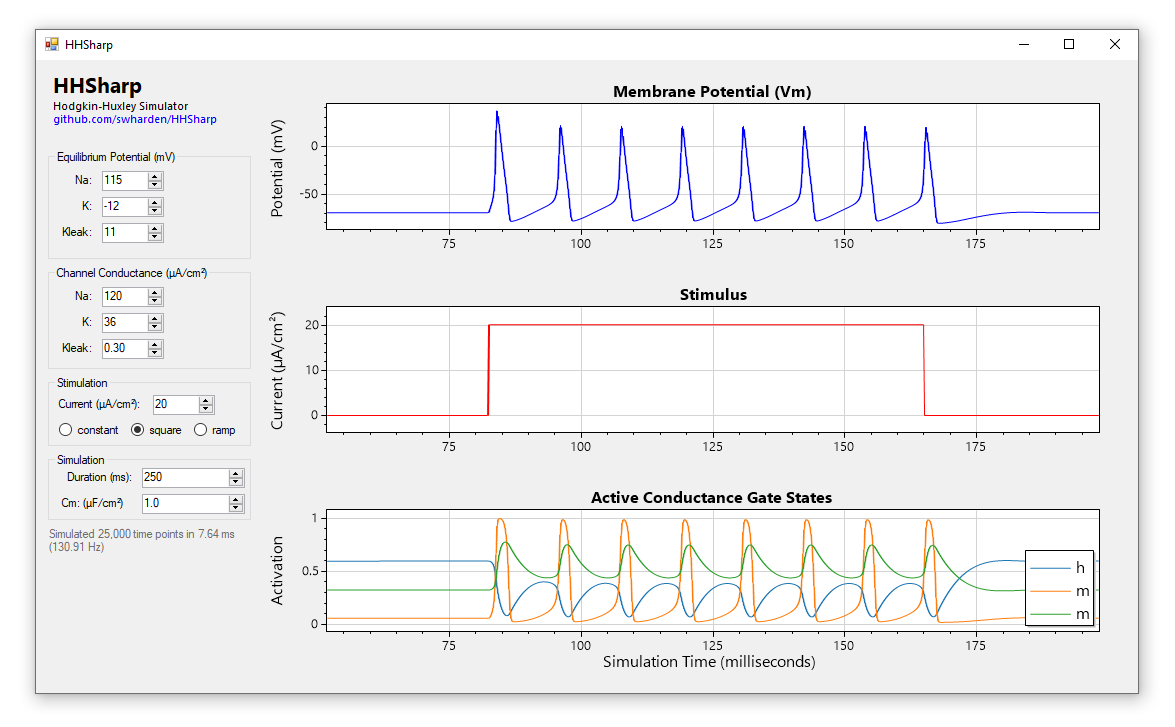
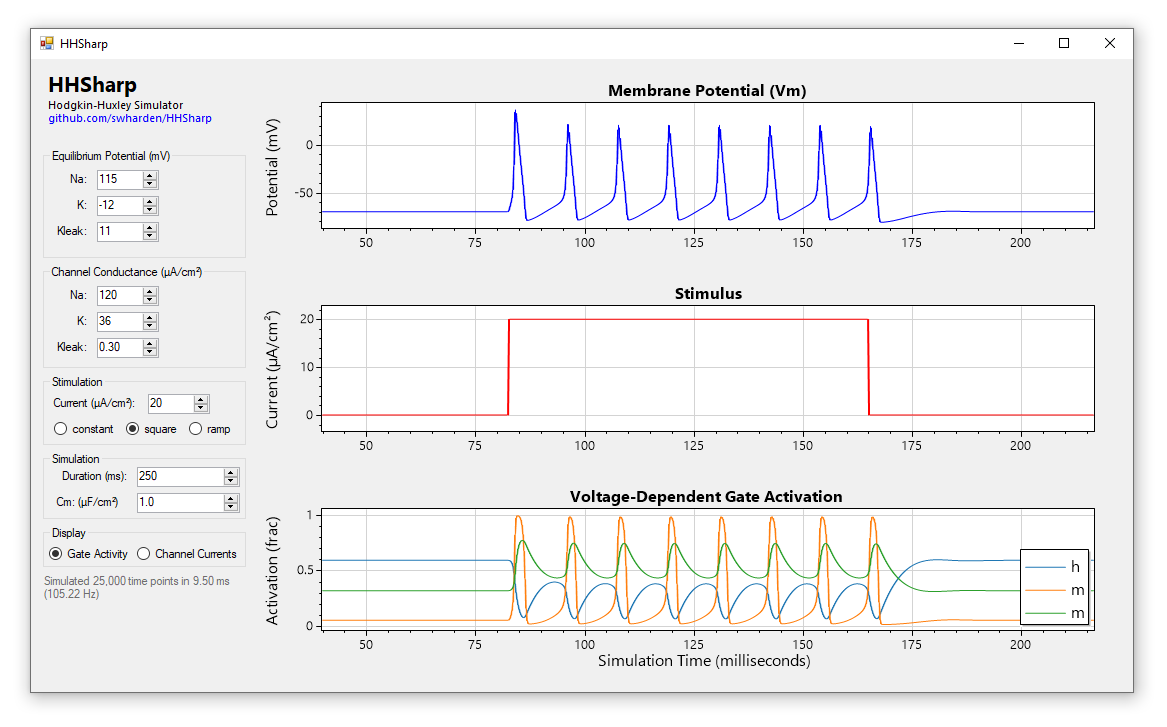
additional display options

diff --git a/src/HHSharp/FormMain.cs b/src/HHSharp/FormMain.cs
@@ -16,20 +16,9 @@ namespace HHSharp
         public FormMain()
         {
             InitializeComponent();
-
-            formsPlot1.plt.Title("Membrane Potential (Vm)");
-            formsPlot1.plt.YLabel("Potential (mV)");
             formsPlot1.plt.mouseTracker.lowQualityWhileInteracting = false;
-
-            formsPlot3.plt.Title("Stimulus");
-            formsPlot3.plt.YLabel("Current (µA/cm²)");
             formsPlot3.plt.mouseTracker.lowQualityWhileInteracting = false;
-
-            formsPlot2.plt.Title("Active Conductance Gate States");
-            formsPlot2.plt.YLabel("Activation");
-            formsPlot2.plt.XLabel("Simulation Time (milliseconds)");
             formsPlot2.plt.mouseTracker.lowQualityWhileInteracting = false;
-
             RunSimulation();
         }
 
@@ -56,7 +45,7 @@ namespace HHSharp
             }
             else
             {
-                throw new Exception("unknown stimulus waveform");
+                throw new NotImplementedException();
             }
 
             return stimulus;
@@ -76,6 +65,10 @@ namespace HHSharp
             double[] stateH = new double[pointCount];
             double[] stateM = new double[pointCount];
             double[] stateN = new double[pointCount];
+
+            double[] INa = new double[pointCount];
+            double[] IK = new double[pointCount];
+            double[] IKleak = new double[pointCount];
 
             double[] stimulus = GenerateStimulusWaveform(pointCount);
 
@@ -97,6 +90,9 @@ namespace HHSharp
                 stateH[i] = hh.h.activation;
                 stateM[i] = hh.m.activation;
                 stateN[i] = hh.n.activation;
+                INa[i] = hh.INa;
+                IK[i] = hh.IK;
+                IKleak[i] = hh.IKleak;
             }
 
             double elapsedSec = (double)stopwatch.ElapsedTicks / Stopwatch.Frequency;
@@ -104,40 +100,47 @@ namespace HHSharp
                 elapsedSec * 1000.0, 1 / elapsedSec, pointCount);
             rtbStatus.Text = message;
 
+            formsPlot1.plt.Title("Membrane Potential (Vm)");
+            formsPlot1.plt.YLabel("Potential (mV)");
             formsPlot1.plt.Clear();
             formsPlot1.plt.PlotSignal(voltage, sampleRate, yOffset: -70, color: Color.Blue);
             formsPlot1.plt.AxisAuto();
             formsPlot1.Render();
 
+            formsPlot3.plt.Title("Stimulus");
+            formsPlot3.plt.YLabel("Current (µA/cm²)");
             formsPlot3.plt.Clear();
             formsPlot3.plt.PlotSignal(stimulus, sampleRate, color: Color.Red);
             formsPlot3.plt.AxisAuto();
             formsPlot3.Render();
 
             formsPlot2.plt.Clear();
-            formsPlot2.plt.PlotSignal(stateH, sampleRate, label: "h");
-            formsPlot2.plt.PlotSignal(stateM, sampleRate, label: "m");
-            formsPlot2.plt.PlotSignal(stateN, sampleRate, label: "m");
+            if (rbDisplayActivity.Checked == true)
+            {
+                formsPlot2.plt.Title("Voltage-Dependent Gate Activation");
+                formsPlot2.plt.YLabel("Activation (frac)");
+                formsPlot2.plt.PlotSignal(stateH, sampleRate, label: "h");
+                formsPlot2.plt.PlotSignal(stateM, sampleRate, label: "m");
+                formsPlot2.plt.PlotSignal(stateN, sampleRate, label: "m");
+            }
+            else if (rbDisplayCurrent.Checked == true)
+            {
+                formsPlot2.plt.Title("Channel Current");
+                formsPlot2.plt.YLabel("Current (µA/cm²)");
+                formsPlot2.plt.PlotSignal(INa, sampleRate, label: "VGSC");
+                formsPlot2.plt.PlotSignal(IK, sampleRate, label: "VGKC");
+                formsPlot2.plt.PlotSignal(IKleak, sampleRate, label: "Kleak");
+            }
+            else
+            {
+                throw new NotImplementedException();
+            }
+            formsPlot2.plt.XLabel("Simulation Time (milliseconds)");
             formsPlot2.plt.Legend();
             formsPlot2.plt.AxisAuto();
             formsPlot2.Render();
 
         }
-
-        private void btnRun_Click(object sender, EventArgs e) { RunSimulation(); }
-        private void nudStimCurrent_ValueChanged(object sender, EventArgs e) { RunSimulation(); }
-        private void rbStimConstant_CheckedChanged(object sender, EventArgs e) { RunSimulation(); }
-        private void rbStimSquare_CheckedChanged(object sender, EventArgs e) { RunSimulation(); }
-        private void rbStimRamp_CheckedChanged(object sender, EventArgs e) { RunSimulation(); }
-        private void nudCm_ValueChanged(object sender, EventArgs e) { RunSimulation(); }
-        private void nudResolutionMs_ValueChanged(object sender, EventArgs e) { RunSimulation(); }
-        private void nudDurationMs_ValueChanged(object sender, EventArgs e) { RunSimulation(); }
-        private void nudGKLeak_ValueChanged(object sender, EventArgs e) { RunSimulation(); }
-        private void nudGK_ValueChanged(object sender, EventArgs e) { RunSimulation(); }
-        private void nudGNa_ValueChanged(object sender, EventArgs e) { RunSimulation(); }
-        private void nudEKLeak_ValueChanged(object sender, EventArgs e) { RunSimulation(); }
-        private void nudEK_ValueChanged(object sender, EventArgs e) { RunSimulation(); }
-        private void nudENa_ValueChanged(object sender, EventArgs e) { RunSimulation(); }
 
         private void formsPlot1_MouseClicked(object sender, MouseEventArgs e)
         {
@@ -175,7 +178,23 @@ namespace HHSharp
 
         private void lblUrl_Click(object sender, EventArgs e)
         {
-            System.Diagnostics.Process.Start("https://github.com/swharden/HHSharp");
+            Process.Start("https://github.com/swharden/HHSharp");
         }
+
+        private void nudStimCurrent_ValueChanged(object sender, EventArgs e) { RunSimulation(); }
+        private void rbStimConstant_CheckedChanged(object sender, EventArgs e) { RunSimulation(); }
+        private void rbStimSquare_CheckedChanged(object sender, EventArgs e) { RunSimulation(); }
+        private void rbStimRamp_CheckedChanged(object sender, EventArgs e) { RunSimulation(); }
+        private void nudCm_ValueChanged(object sender, EventArgs e) { RunSimulation(); }
+        private void nudResolutionMs_ValueChanged(object sender, EventArgs e) { RunSimulation(); }
+        private void nudDurationMs_ValueChanged(object sender, EventArgs e) { RunSimulation(); }
+        private void nudGKLeak_ValueChanged(object sender, EventArgs e) { RunSimulation(); }
+        private void nudGK_ValueChanged(object sender, EventArgs e) { RunSimulation(); }
+        private void nudGNa_ValueChanged(object sender, EventArgs e) { RunSimulation(); }
+        private void nudEKLeak_ValueChanged(object sender, EventArgs e) { RunSimulation(); }
+        private void nudEK_ValueChanged(object sender, EventArgs e) { RunSimulation(); }
+        private void nudENa_ValueChanged(object sender, EventArgs e) { RunSimulation(); }
+        private void rbDisplayActivity_CheckedChanged(object sender, EventArgs e) { RunSimulation(); }
+        private void rbDisplayCurrent_CheckedChanged(object sender, EventArgs e) { RunSimulation(); }
     }
 }

diff --git a/src/HHSharp/FormMain.Designer.cs b/src/HHSharp/FormMain.Designer.cs
@@ -58,9 +58,12 @@
             this.label11 = new System.Windows.Forms.Label();
             this.nudStimCurrent = new System.Windows.Forms.NumericUpDown();
             this.formsPlot2 = new ScottPlot.FormsPlot();
-            this.formsPlot3 = new ScottPlot.FormsPlot();
             this.tableLayoutPanel1 = new System.Windows.Forms.TableLayoutPanel();
             this.rtbStatus = new System.Windows.Forms.RichTextBox();
+            this.groupBox5 = new System.Windows.Forms.GroupBox();
+            this.formsPlot3 = new ScottPlot.FormsPlot();
+            this.rbDisplayActivity = new System.Windows.Forms.RadioButton();
+            this.rbDisplayCurrent = new System.Windows.Forms.RadioButton();
             ((System.ComponentModel.ISupportInitialize)(this.nudDurationMs)).BeginInit();
             this.groupBox1.SuspendLayout();
             ((System.ComponentModel.ISupportInitialize)(this.nudCm)).BeginInit();
@@ -75,6 +78,7 @@
             this.groupBox4.SuspendLayout();
             ((System.ComponentModel.ISupportInitialize)(this.nudStimCurrent)).BeginInit();
             this.tableLayoutPanel1.SuspendLayout();
+            this.groupBox5.SuspendLayout();
             this.SuspendLayout();
             // 
             // formsPlot1
@@ -507,15 +511,6 @@
             this.formsPlot2.TabIndex = 12;
             this.formsPlot2.MouseClicked += new System.Windows.Forms.MouseEventHandler(this.formsPlot2_MouseClicked);
             // 
-            // formsPlot3
-            // 
-            this.formsPlot3.Dock = System.Windows.Forms.DockStyle.Fill;
-            this.formsPlot3.Location = new System.Drawing.Point(3, 206);
-            this.formsPlot3.Name = "formsPlot3";
-            this.formsPlot3.Size = new System.Drawing.Size(863, 197);
-            this.formsPlot3.TabIndex = 13;
-            this.formsPlot3.MouseClicked += new System.Windows.Forms.MouseEventHandler(this.formsPlot3_MouseClicked);
-            // 
             // tableLayoutPanel1
             // 
             this.tableLayoutPanel1.Anchor = ((System.Windows.Forms.AnchorStyles)((((System.Windows.Forms.AnchorStyles.Top | System.Windows.Forms.AnchorStyles.Bottom) 
@@ -540,17 +535,62 @@
             this.rtbStatus.BackColor = System.Drawing.SystemColors.Control;
             this.rtbStatus.BorderStyle = System.Windows.Forms.BorderStyle.None;
             this.rtbStatus.Enabled = false;
-            this.rtbStatus.Location = new System.Drawing.Point(12, 467);
+            this.rtbStatus.Location = new System.Drawing.Point(12, 515);
             this.rtbStatus.Name = "rtbStatus";
-            this.rtbStatus.Size = new System.Drawing.Size(203, 96);
+            this.rtbStatus.Size = new System.Drawing.Size(203, 75);
             this.rtbStatus.TabIndex = 15;
             this.rtbStatus.Text = "status";
+            // 
+            // groupBox5
+            // 
+            this.groupBox5.Controls.Add(this.rbDisplayCurrent);
+            this.groupBox5.Controls.Add(this.rbDisplayActivity);
+            this.groupBox5.Location = new System.Drawing.Point(12, 467);
+            this.groupBox5.Name = "groupBox5";
+            this.groupBox5.Size = new System.Drawing.Size(203, 42);
+            this.groupBox5.TabIndex = 9;
+            this.groupBox5.TabStop = false;
+            this.groupBox5.Text = "Display";
+            // 
+            // formsPlot3
+            // 
+            this.formsPlot3.Dock = System.Windows.Forms.DockStyle.Fill;
+            this.formsPlot3.Location = new System.Drawing.Point(3, 206);
+            this.formsPlot3.Name = "formsPlot3";
+            this.formsPlot3.Size = new System.Drawing.Size(863, 197);
+            this.formsPlot3.TabIndex = 13;
+            this.formsPlot3.MouseClicked += new System.Windows.Forms.MouseEventHandler(this.formsPlot3_MouseClicked);
+            // 
+            // rbDisplayActivity
+            // 
+            this.rbDisplayActivity.AutoSize = true;
+            this.rbDisplayActivity.Checked = true;
+            this.rbDisplayActivity.Location = new System.Drawing.Point(6, 19);
+            this.rbDisplayActivity.Name = "rbDisplayActivity";
+            this.rbDisplayActivity.Size = new System.Drawing.Size(85, 17);
+            this.rbDisplayActivity.TabIndex = 6;
+            this.rbDisplayActivity.TabStop = true;
+            this.rbDisplayActivity.Text = "Gate Activity";
+            this.rbDisplayActivity.UseVisualStyleBackColor = true;
+            this.rbDisplayActivity.CheckedChanged += new System.EventHandler(this.rbDisplayActivity_CheckedChanged);
+            // 
+            // rbDisplayCurrent
+            // 
+            this.rbDisplayCurrent.AutoSize = true;
+            this.rbDisplayCurrent.Location = new System.Drawing.Point(94, 19);
+            this.rbDisplayCurrent.Name = "rbDisplayCurrent";
+            this.rbDisplayCurrent.Size = new System.Drawing.Size(106, 17);
+            this.rbDisplayCurrent.TabIndex = 7;
+            this.rbDisplayCurrent.Text = "Channel Currents";
+            this.rbDisplayCurrent.UseVisualStyleBackColor = true;
+            this.rbDisplayCurrent.CheckedChanged += new System.EventHandler(this.rbDisplayCurrent_CheckedChanged);
             // 
             // FormMain
             // 
             this.AutoScaleDimensions = new System.Drawing.SizeF(6F, 13F);
             this.AutoScaleMode = System.Windows.Forms.AutoScaleMode.Font;
             this.ClientSize = new System.Drawing.Size(1102, 633);
+            this.Controls.Add(this.groupBox5);
             this.Controls.Add(this.rtbStatus);
             this.Controls.Add(this.tableLayoutPanel1);
             this.Controls.Add(this.groupBox4);
@@ -580,6 +620,8 @@
             this.groupBox4.PerformLayout();
             ((System.ComponentModel.ISupportInitialize)(this.nudStimCurrent)).EndInit();
             this.tableLayoutPanel1.ResumeLayout(false);
+            this.groupBox5.ResumeLayout(false);
+            this.groupBox5.PerformLayout();
             this.ResumeLayout(false);
             this.PerformLayout();
 
@@ -617,9 +659,12 @@
         private System.Windows.Forms.Label label11;
         private System.Windows.Forms.NumericUpDown nudStimCurrent;
         private ScottPlot.FormsPlot formsPlot2;
-        private ScottPlot.FormsPlot formsPlot3;
         private System.Windows.Forms.TableLayoutPanel tableLayoutPanel1;
         private System.Windows.Forms.RichTextBox rtbStatus;
+        private System.Windows.Forms.GroupBox groupBox5;
+        private ScottPlot.FormsPlot formsPlot3;
+        private System.Windows.Forms.RadioButton rbDisplayCurrent;
+        private System.Windows.Forms.RadioButton rbDisplayActivity;
     }
 }
 
